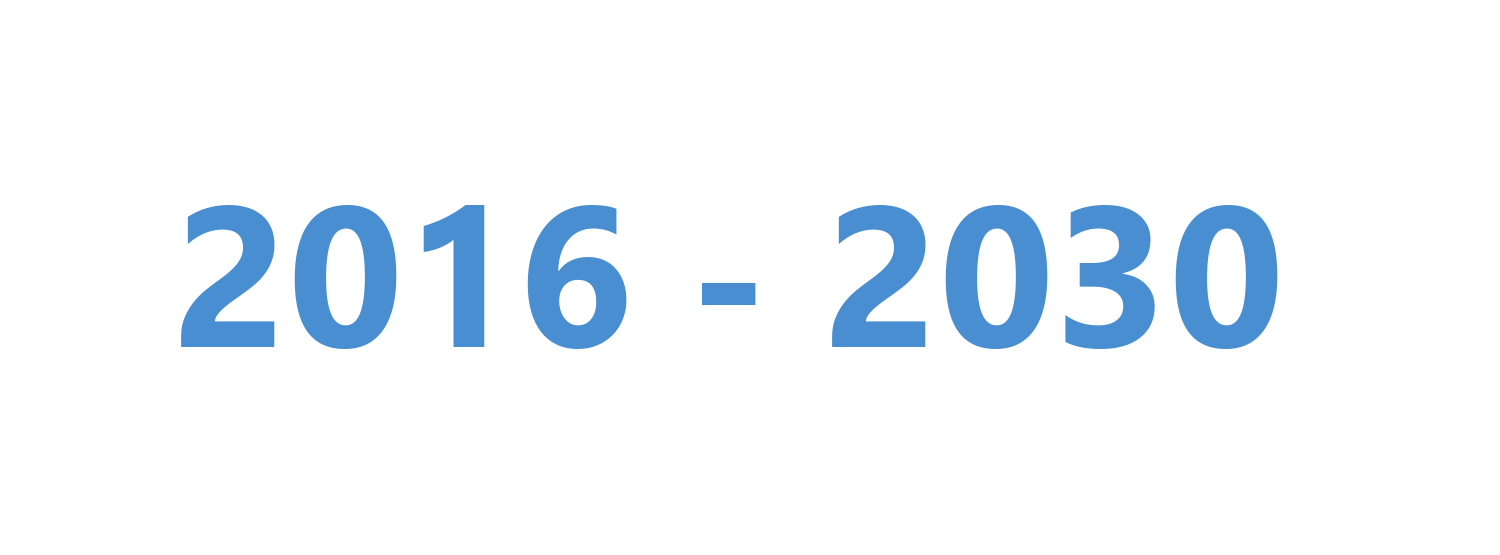
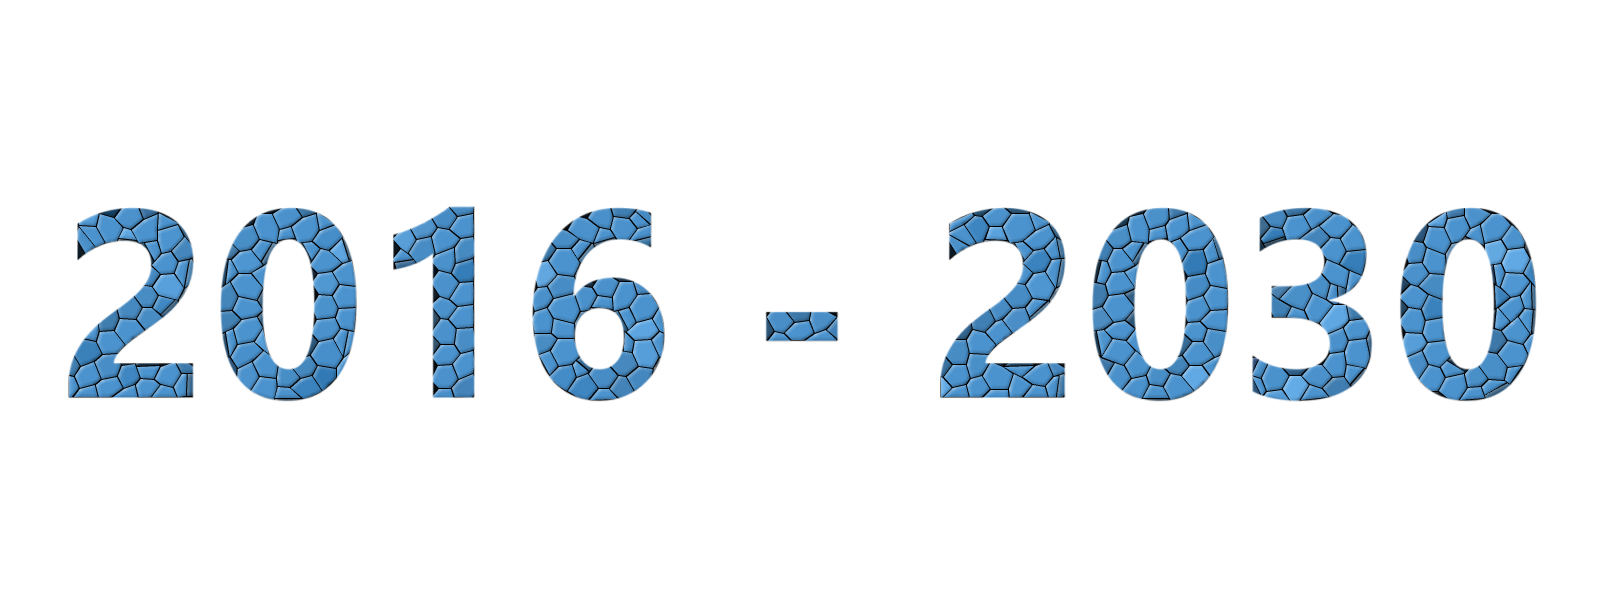
dodanie ikon, drobne zmiany

Changed region(s): [[0.552, 0.3369, 0.9813, 0.6739], [0.0307, 0.3369, 0.4293, 0.6739], [0.46, 0.4901, 0.5213, 0.582]]

diff --git a/index.html b/index.html
@@ -5,6 +5,9 @@
     <meta name="viewport" content="width=device-width, initial-scale=1.0">
     <title>SDGs EDU</title>
     <link rel="stylesheet" href="style1.css">
+    <link rel="icon" type="image/x-icon" href="img/icon3.png">
+
+
 </head>
 <body>
     <header>
@@ -16,7 +19,7 @@
                 <li><a href="index.html">HOME</a></li>
                 <li><a href="">ABOUT US</a></li>
                 <li><a href="educational-materials.html">EDUCATIONAL MATERIALS</a></li>
-                <li><a href="">QUIY</a></li>
+                <li><a href="">QUIZ</a></li>
                 <li><a href="">BOARD GAME</a></li>
                 
             </ul>
@@ -33,9 +36,8 @@
         <section id="section3" class="page-section">
             <h1 class="main">TO PARTNERSHIP FOR THE GOALS</h1>
         </section>
-        <section id="section4" class="page-section">
-            <h1 class="main">2016 - 2030</h1>
-        </section>
+        <section id="section4" class="page-section"></section>
+
         <section id="section5" class="page-section">
             <h1 class="main">193 COUNTRIES</h1>
         </section>

diff --git a/style1.css b/style1.css
@@ -5,7 +5,7 @@
 }
 
 body {
-    font-family: Arial, sans-serif;
+    font-family: system-ui, -apple-system, BlinkMacSystemFont, 'Segoe UI', Roboto, Oxygen, Ubuntu, Cantarell, 'Open Sans', 'Helvetica Neue', sans-serif;
     overflow-x: hidden;
     background-color: #f4f4f4;
 }
@@ -78,14 +78,14 @@ main {
 }
 
 /* Specific section styling */
-#section1, #section2, #section3, #section6 {
+#section1, #section2, #section3, #section4, #section5, #section6 {
     background-size: cover;
     background-position: center;
     height: 300px;
 }
 
 #section1 {
-    background-image: url(img/GOALS.png);
+    background-image: url(img/poprawne_cele.png);
 }
 
 #section2 {
@@ -99,8 +99,8 @@ main {
 }
 
 #section4 {
-    background-color: #a399ff;
-    color: #fff;
+    background-image: url(img/2016_2030.png);
+    color: white;
 }
 
 #section5 {

diff --git a/index PL.html b/index PL.html
@@ -5,6 +5,7 @@
     <meta name="viewport" content="width=device-width, initial-scale=1.0">
     <title>SDGs EDU</title>
     <link rel="stylesheet" href="style1.css">
+    <link rel="icon" type="image/x-icon" href="img/icon3.png">
 </head>
 <body>
     <header>
@@ -34,7 +35,6 @@
             <h1 class="main">DO WSPÓŁPRACY DLA CELÓW</h1>
         </section>
         <section id="section4" class="page-section">
-            <h1 class="main">2016 - 2030</h1>
         </section>
         <section id="section5" class="page-section">
             <h1 class="main">193 KRAJE</h1>
